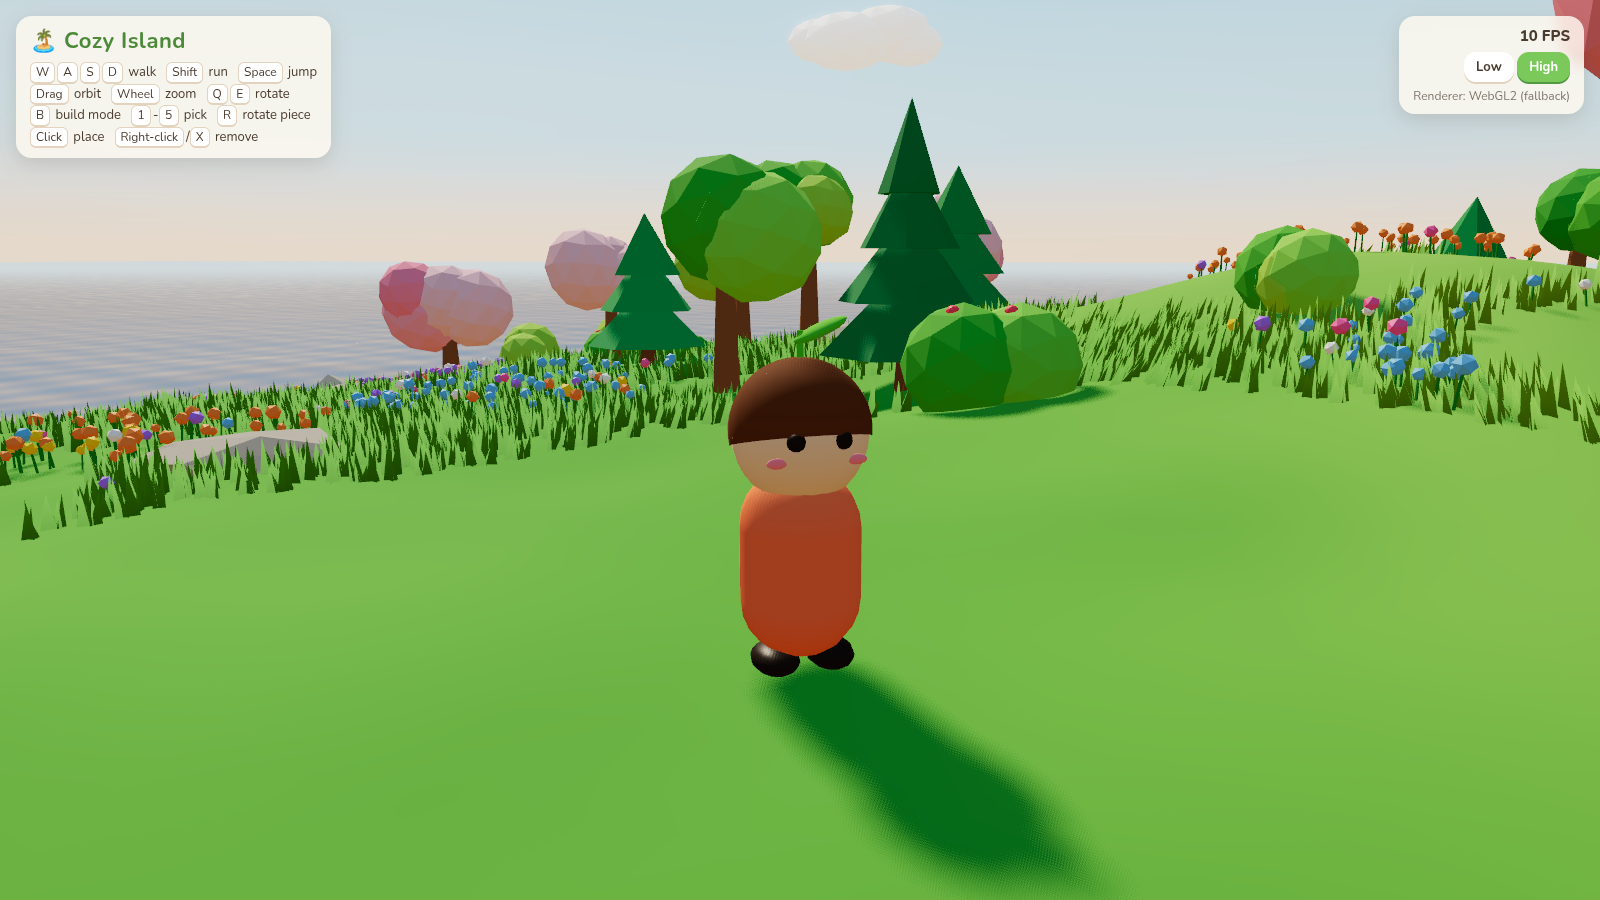
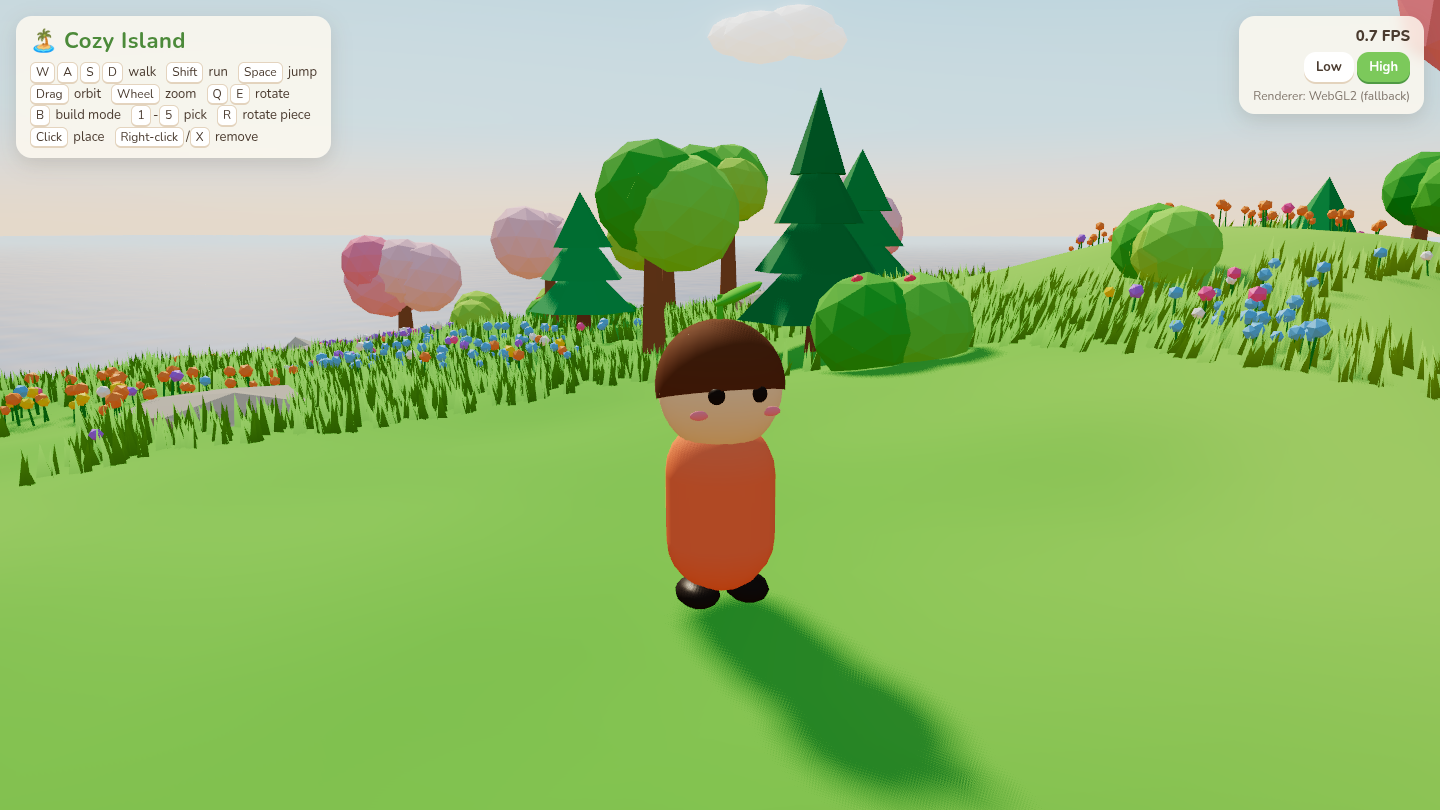
Water ripple/glint polish, README, final milestone-1 screenshots

diff --git a/src/world/Water.ts b/src/world/Water.ts
@@ -17,15 +17,17 @@ export function createWater(heightTex: THREE.Texture): THREE.Mesh {
   const a3 = p.x.add(p.z).mul(0.8).add(t.mul(1.7));
   const wave = sin(a1).mul(0.06).add(sin(a2).mul(0.05)).add(sin(a3).mul(0.025));
 
-  const mat = new THREE.MeshStandardNodeMaterial({ transparent: true, roughness: 0.32, metalness: 0.0 });
+  const mat = new THREE.MeshStandardNodeMaterial({ transparent: true, roughness: 0.42, metalness: 0.0 });
   mat.positionNode = p.add(vec3(0, wave, 0));
 
   // Analytic normal + high-frequency ripples (fragment only).
   const w = positionWorld;
   const dx = cos(a1).mul(0.021).add(cos(a3).mul(0.02))
-    .add(cos(w.x.mul(2.3).add(w.z.mul(0.7)).add(t.mul(2.4))).mul(0.06));
+    .add(cos(w.x.mul(2.3).add(w.z.mul(0.7)).add(t.mul(2.4))).mul(0.025))
+    .add(mx_noise_float(vec3(w.x.mul(0.6), w.z.mul(0.6), t.mul(0.5))).mul(0.05));
   const dz = cos(a2).mul(0.021).add(cos(a3).mul(0.02))
-    .add(cos(w.z.mul(2.1).sub(w.x.mul(0.9)).sub(t.mul(2.0))).mul(0.06));
+    .add(cos(w.z.mul(2.1).sub(w.x.mul(0.9)).sub(t.mul(2.0))).mul(0.025))
+    .add(mx_noise_float(vec3(w.z.mul(0.6).add(17), w.x.mul(0.6), t.mul(0.5))).mul(0.05));
   const fade = smoothstep(float(90), float(15), cameraPosition.sub(positionWorld).length());
   const nWorld = normalize(vec3(dx.negate().mul(fade.mul(0.7).add(0.3)), float(1), dz.negate().mul(fade.mul(0.7).add(0.3))));
   mat.normalNode = transformNormalToView(nWorld);

diff --git a/README.md b/README.md
@@ -1,0 +1,17 @@
+# Cozy Island (milestone 1)
+
+TypeScript + Vite + Three.js r186 `WebGPURenderer` (auto WebGL2 fallback) + TSL shaders + Rapier physics.
+
+    npm install
+    npm run dev        # http://localhost:5173
+    npm run build      # tsc --noEmit && vite build
+    npm run preview    # http://localhost:4180 (serves dist/)
+    npm run shots -- --webgl   # Playwright smoke test + screenshots/ (needs preview running)
+
+URL params: `?webgl` forces the WebGL2 backend, `?q=low` starts on Low quality.
+
+Controls: WASD walk, Shift run, Space jump, drag orbit, wheel zoom, Q/E rotate camera,
+B build mode, 1-5 select piece, R rotate piece, click place, right-click / X remove.
+
+Layout: `src/core` (Game loop, Input, Physics, System), `src/world` (Terrain, Water, Sky, Decor, Models, noise),
+`src/player` (Player controller, CameraRig), `src/build` (BuildMode), `src/render` (renderer + post), `src/ui` (HUD).
